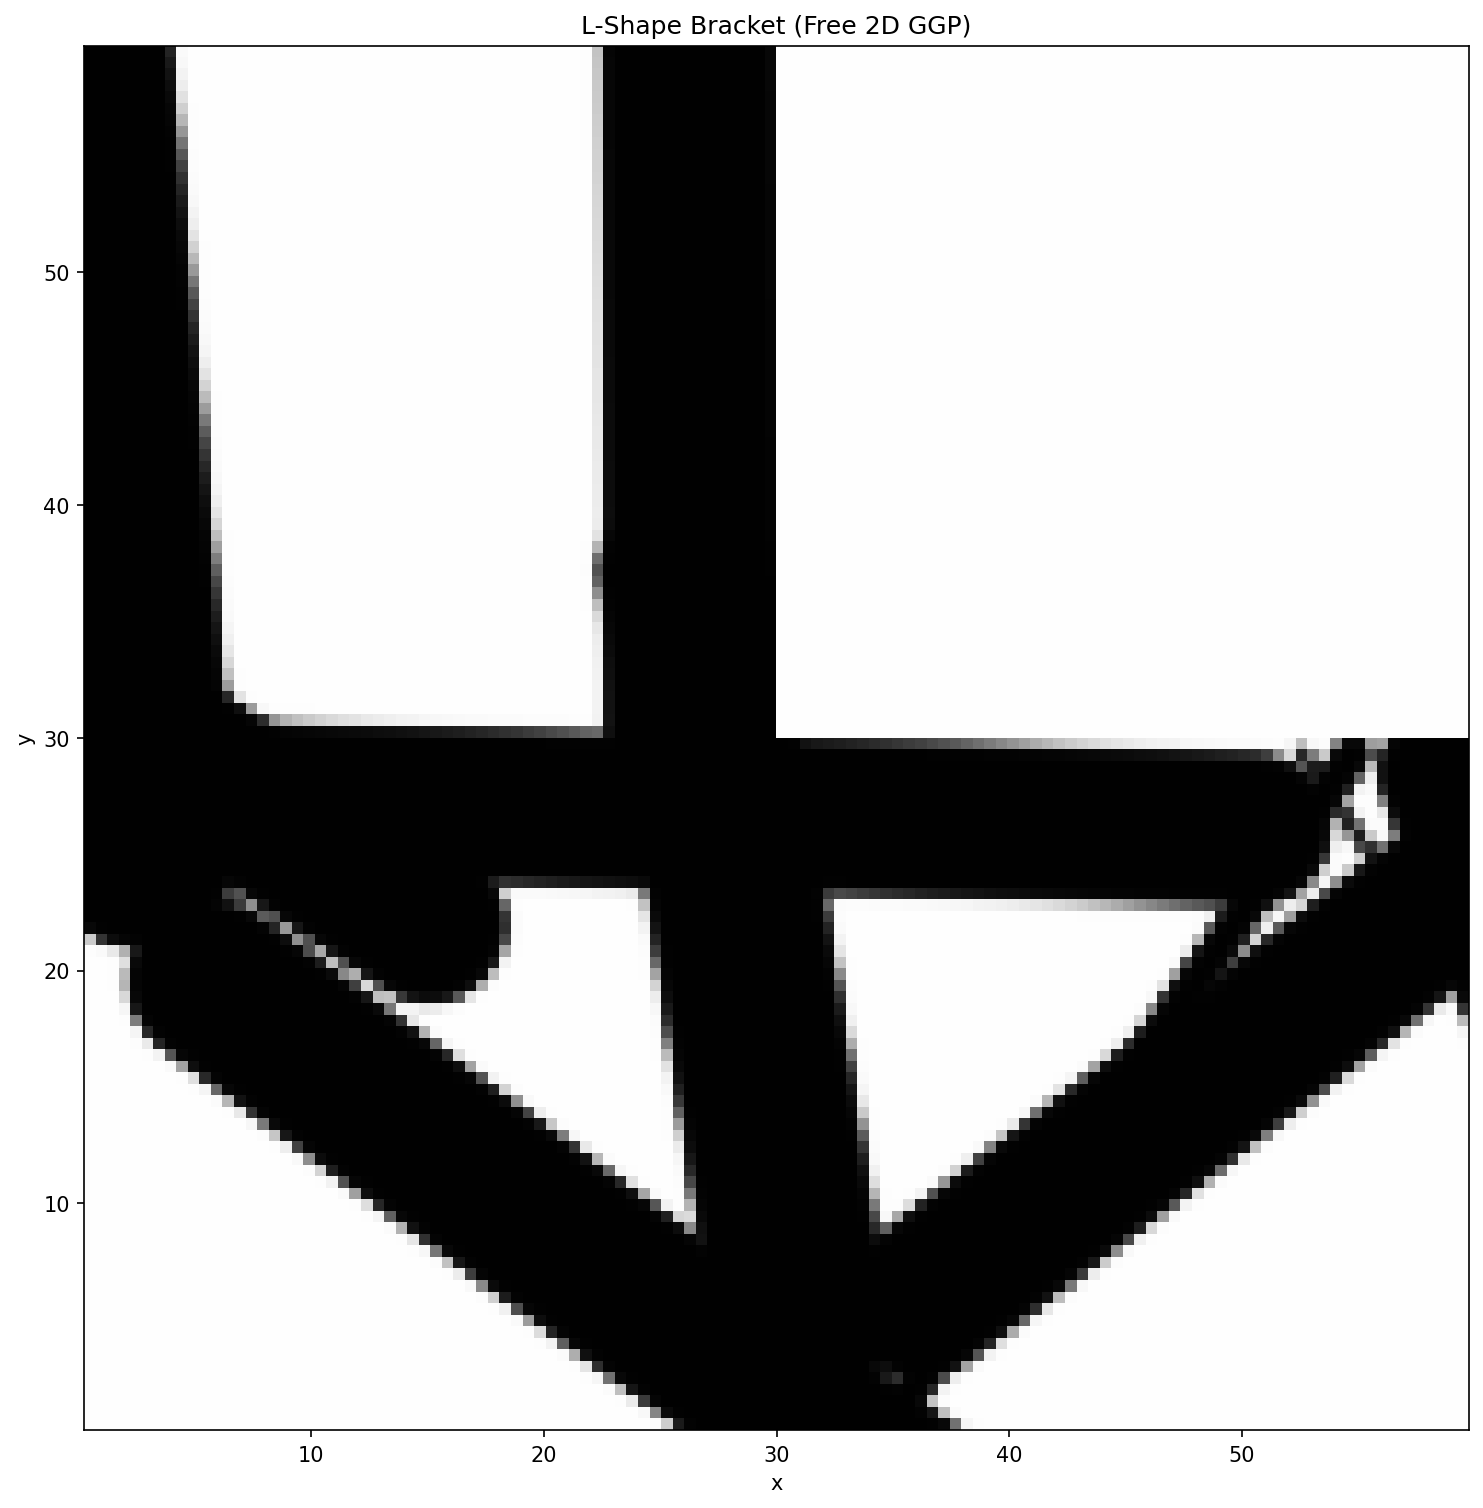
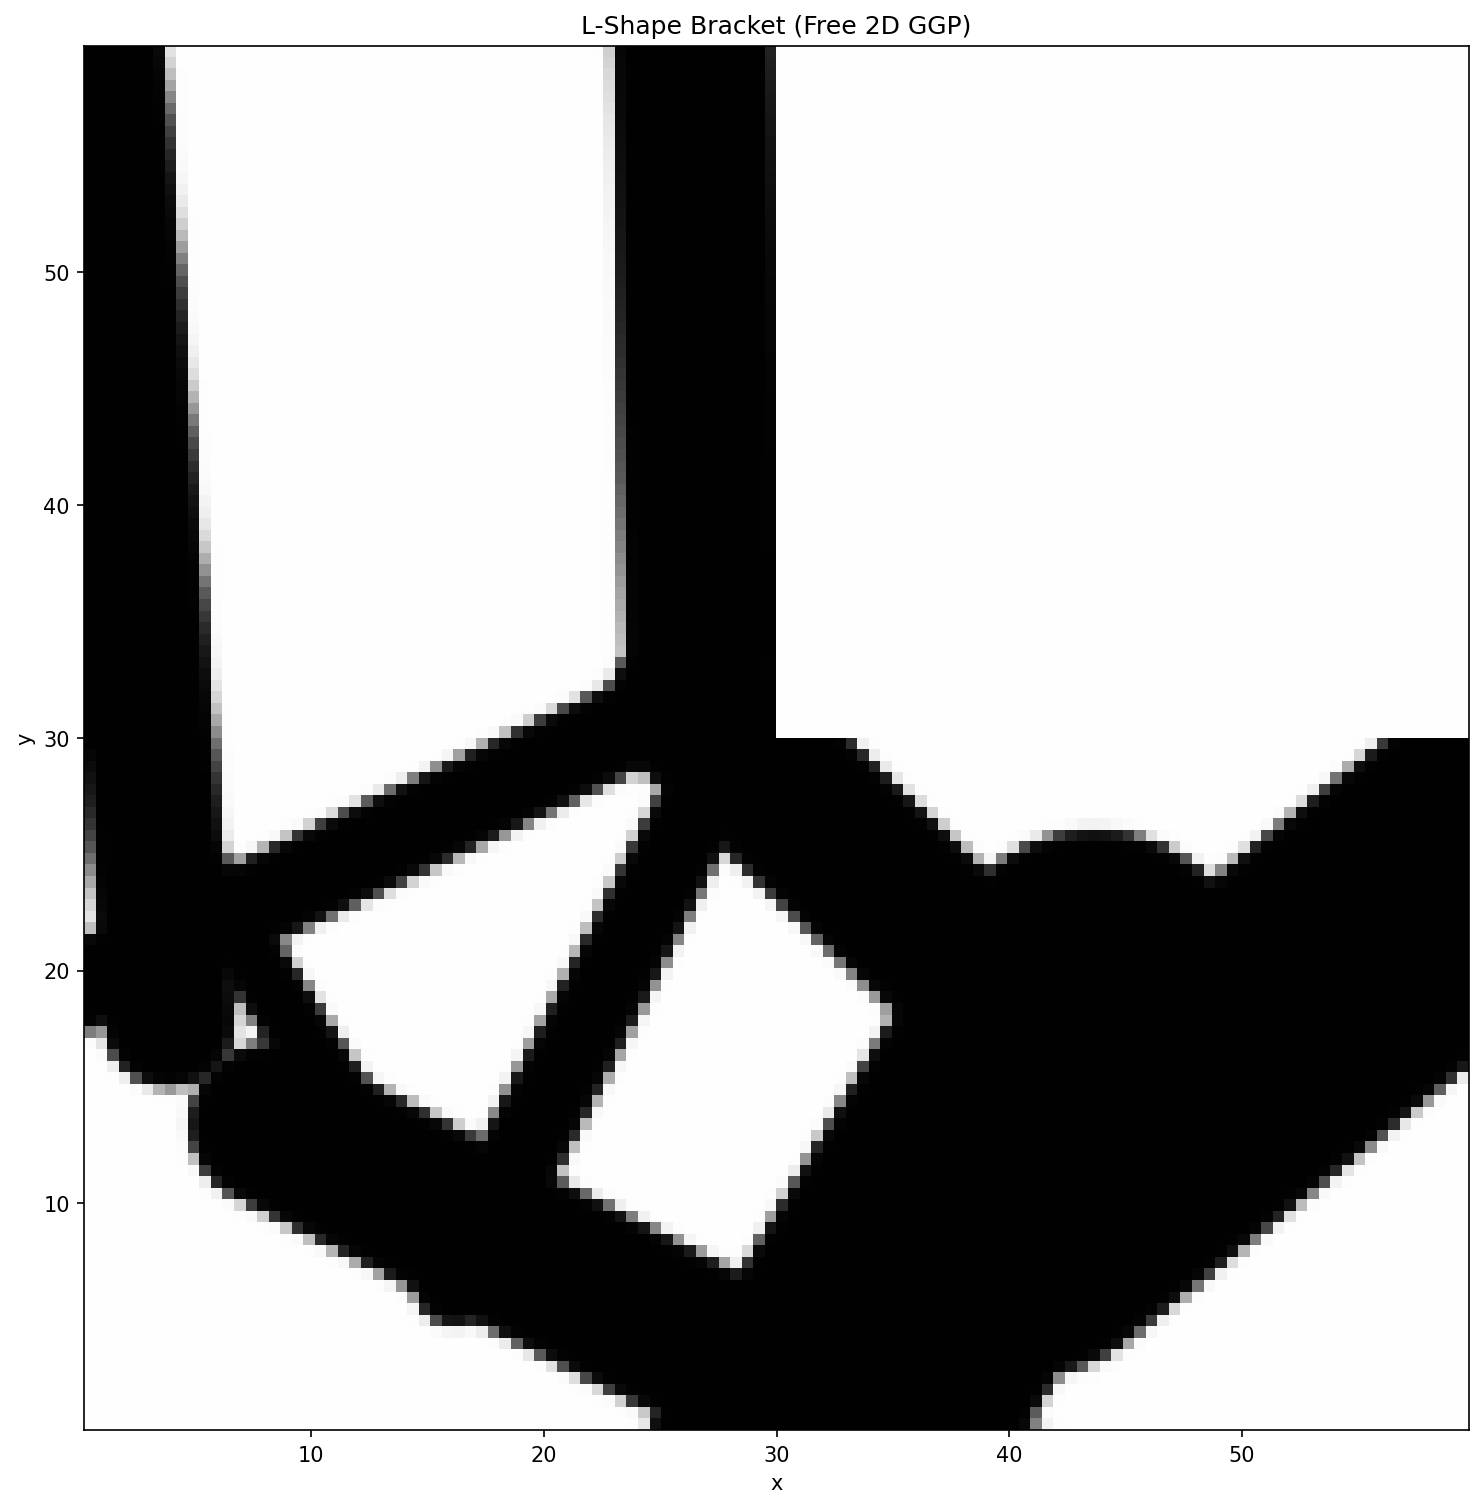
Fix void-region singularity at the FE level, not via a global Emin
The previous attempt kept Emin=1e-6 whenever a non-design void was present,
but that floor applies to the whole domain and (as the existing comment
notes) spuriously raises void stiffness, shifting the optimum and degrading
the L-shape result.

Instead: the GP method always uses Emin=0 (exact reference physics), and the
FE solver now pins genuinely isolated material-free DOFs — nodes whose every
incident element is void, which produce all-zero stiffness rows — to zero via
an identity row. This removes the singularity for the L-shape void quadrant
(and the ALM Emin=0 case) without perturbing the load-carrying structure.

Regenerates the L-shape doc image (120x120) with the corrected physics; the
void quadrant is now genuinely empty.

Claude-Session: https://claude.ai/code/session_019xV1X4q9qJwcoLzf9Jkhq3

Changed region(s): [[0.031, 0.0312, 0.9616, 0.935], [0.6204, 0.6545, 0.9926, 0.9662], [0.4343, 0.935, 0.4653, 0.9662]]

diff --git a/ggp/optimization/pipeline.py b/ggp/optimization/pipeline.py
@@ -282,24 +282,19 @@ class GGPPipeline:
         # AMNA/MNA methods: SIMP with p=3
         method = self.spec.formulation.method or "GP"
         p_penalty = 1.0 if method == "GP" else 3.0
-        # Emin: the reference Free GP branch (model_updateM.py) computes E = rho*E0
-        # with NO Emin floor (void E -> ~0 via the smooth-saturation residual).
-        # GGP-Topo's SIMP form adds Emin, which spuriously raises void E and, because
-        # the initial design is mostly void, shifts compliance ~1.5% and steers the
-        # optimizer to a different (asymmetric) optimum. Match the reference: no Emin
-        # floor for the Free GP case. NB: ALM modes also default to method="GP" but
-        # their reference uses MNA *with* Emin (and Emin=0 makes the ALM FE singular
-        # -> NaN), so the no-floor case is restricted to non-ALM modes.
+        # Emin: the reference GP branch (model_updateM.py) computes E = rho*E0 with
+        # NO Emin floor (void E -> ~0 via the smooth-saturation residual). GGP-Topo's
+        # SIMP form adds Emin, which spuriously raises void E and, because the initial
+        # design is mostly void, shifts compliance ~1.5% and steers the optimizer to a
+        # different (asymmetric) optimum. So the GP method always runs with Emin=0;
+        # every other method keeps the 1e-6 floor.
         #
-        # A forced non-design void region (empty_elements) is the same singular
-        # trap: those elements are pinned to rho=0, so with Emin=0 every node in
-        # the void interior gets an all-zero stiffness row and the global matrix is
-        # exactly singular (e.g. the L-shape bracket). Keep the Emin floor whenever
-        # void elements are present so the void carries a vanishing-but-nonzero
-        # stiffness and the FE system stays solvable.
-        _is_alm = "ALM" in (self.spec.formulation.mode or "")
-        _has_void = bool(analysis.empty_elements)
-        e_min = 0.0 if (method == "GP" and not _is_alm and not _has_void) else 1e-6
+        # Emin=0 leaves genuinely material-free DOFs (e.g. the interior of a forced
+        # non-design void region, as in the L-shape bracket) with an all-zero
+        # stiffness row, which would make the global matrix singular. That is handled
+        # in the FE solve by pinning those isolated DOFs to zero, NOT by floating the
+        # whole void on a fake Emin stiffness, so the load-carrying physics is exact.
+        e_min = 0.0 if method == "GP" else 1e-6
 
         phys_discipline = GGPPhysicsDiscipline(
             V_u=analysis.function_spaces["u"],

diff --git a/ggp/gemseo_wrappers/physics_discipline.py b/ggp/gemseo_wrappers/physics_discipline.py
@@ -97,7 +97,22 @@ class GGPPhysicsDiscipline(Discipline):
             diag_idx = np.where(col_indices == dof)[0]
             if len(diag_idx) > 0:
                 K_global.data[dof_start + diag_idx[0]] = 1.0
-        
+
+        # Pin isolated material-free DOFs. With Emin=0 (the GP method) a node whose
+        # every incident element is void (E=0) — e.g. the interior of a forced
+        # non-design region such as the L-shape bracket's empty quadrant — has an
+        # all-zero stiffness row and column, which makes K singular (spsolve -> NaN).
+        # Such DOFs carry neither load nor stiffness, so pin them to zero with an
+        # identity row. This keeps the system solvable without floating the void on a
+        # fake Emin stiffness, so the load-carrying structure is modelled exactly.
+        diag = K_global.diagonal()
+        isolated_dofs = np.where(diag == 0.0)[0]
+        if isolated_dofs.size:
+            K_global = K_global + sps.csr_matrix(
+                (np.ones(isolated_dofs.size), (isolated_dofs, isolated_dofs)),
+                shape=K_global.shape,
+            )
+
         # Solve K U = F
         if self.iterative:
             from petsc4py import PETSc
